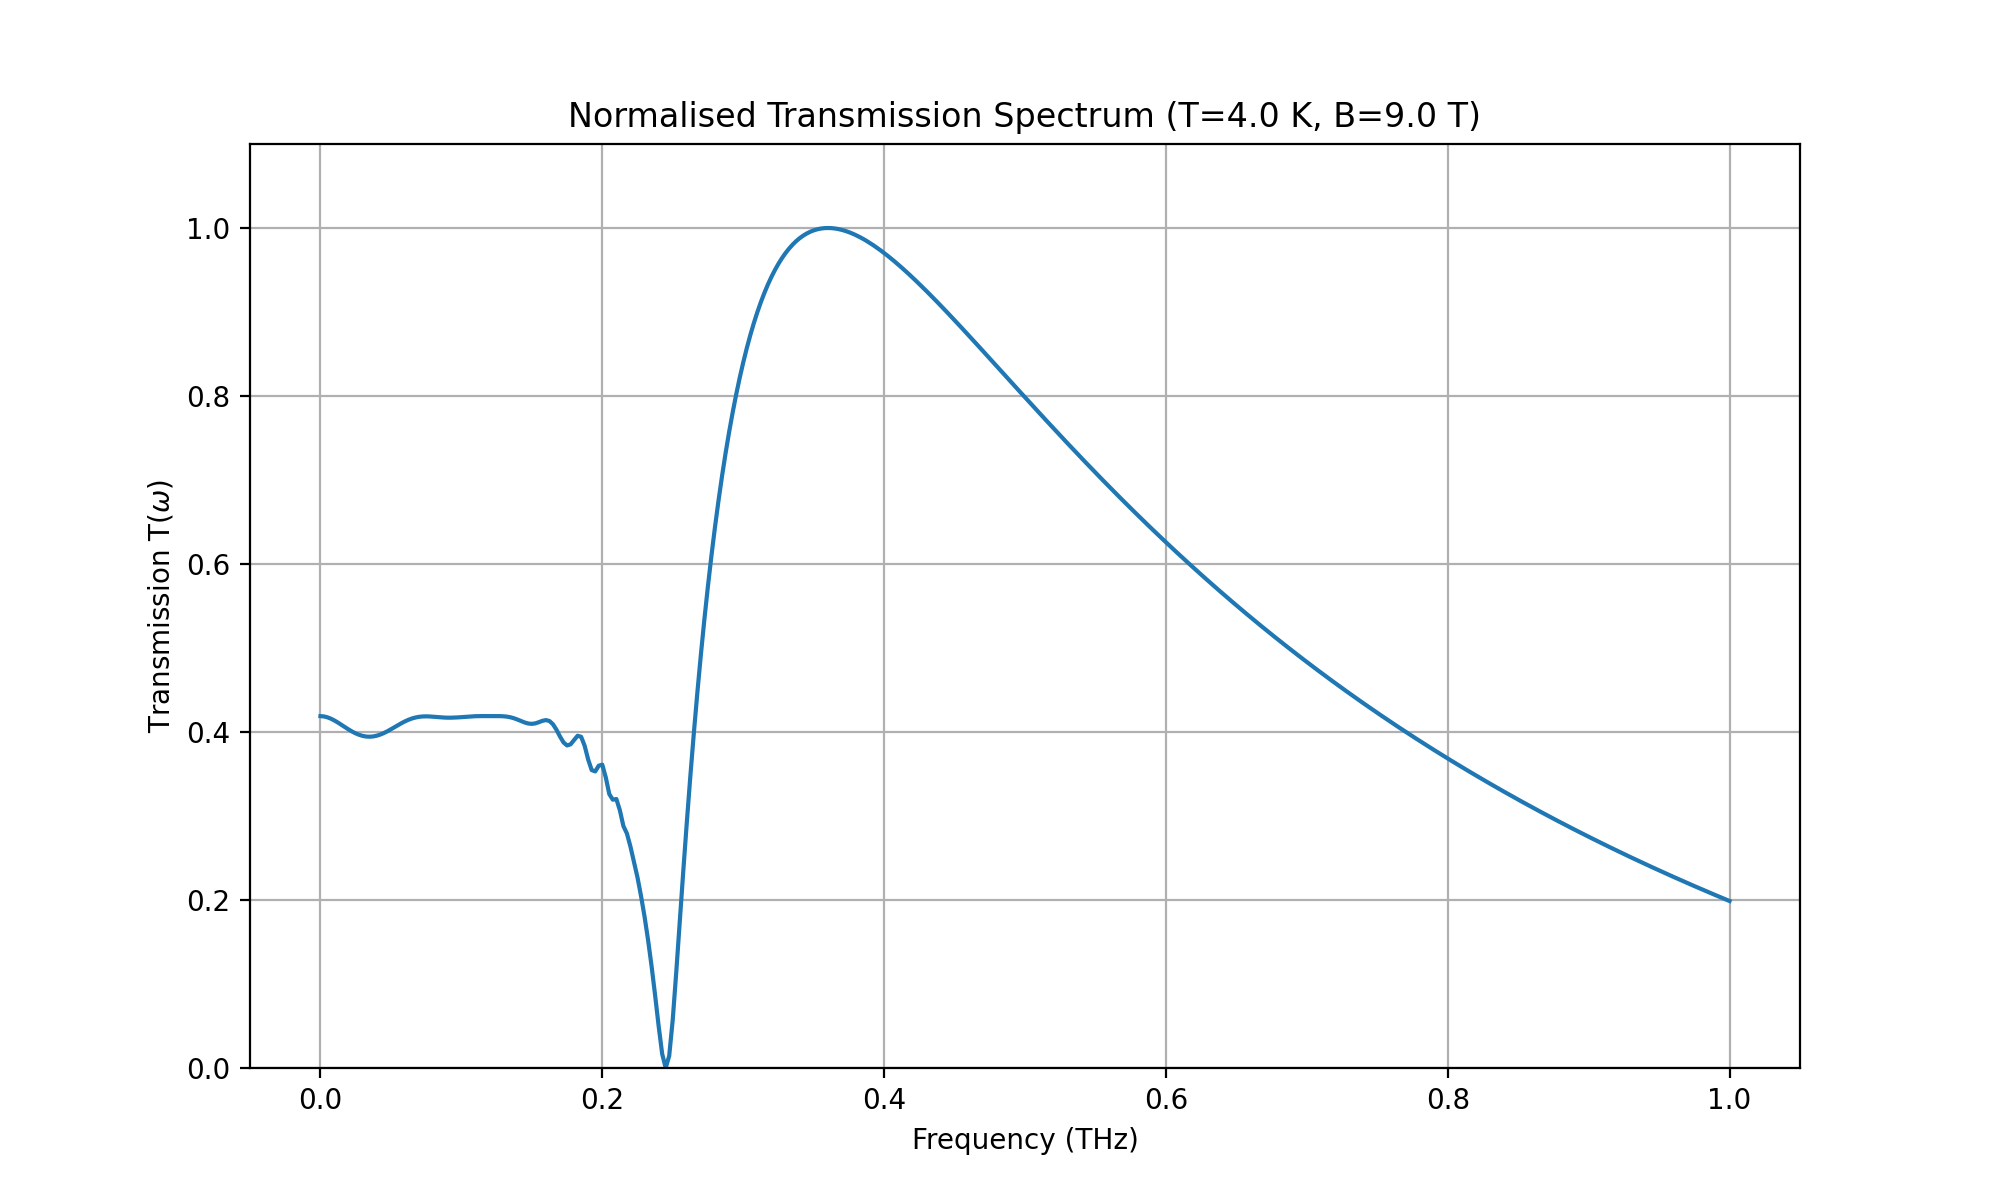
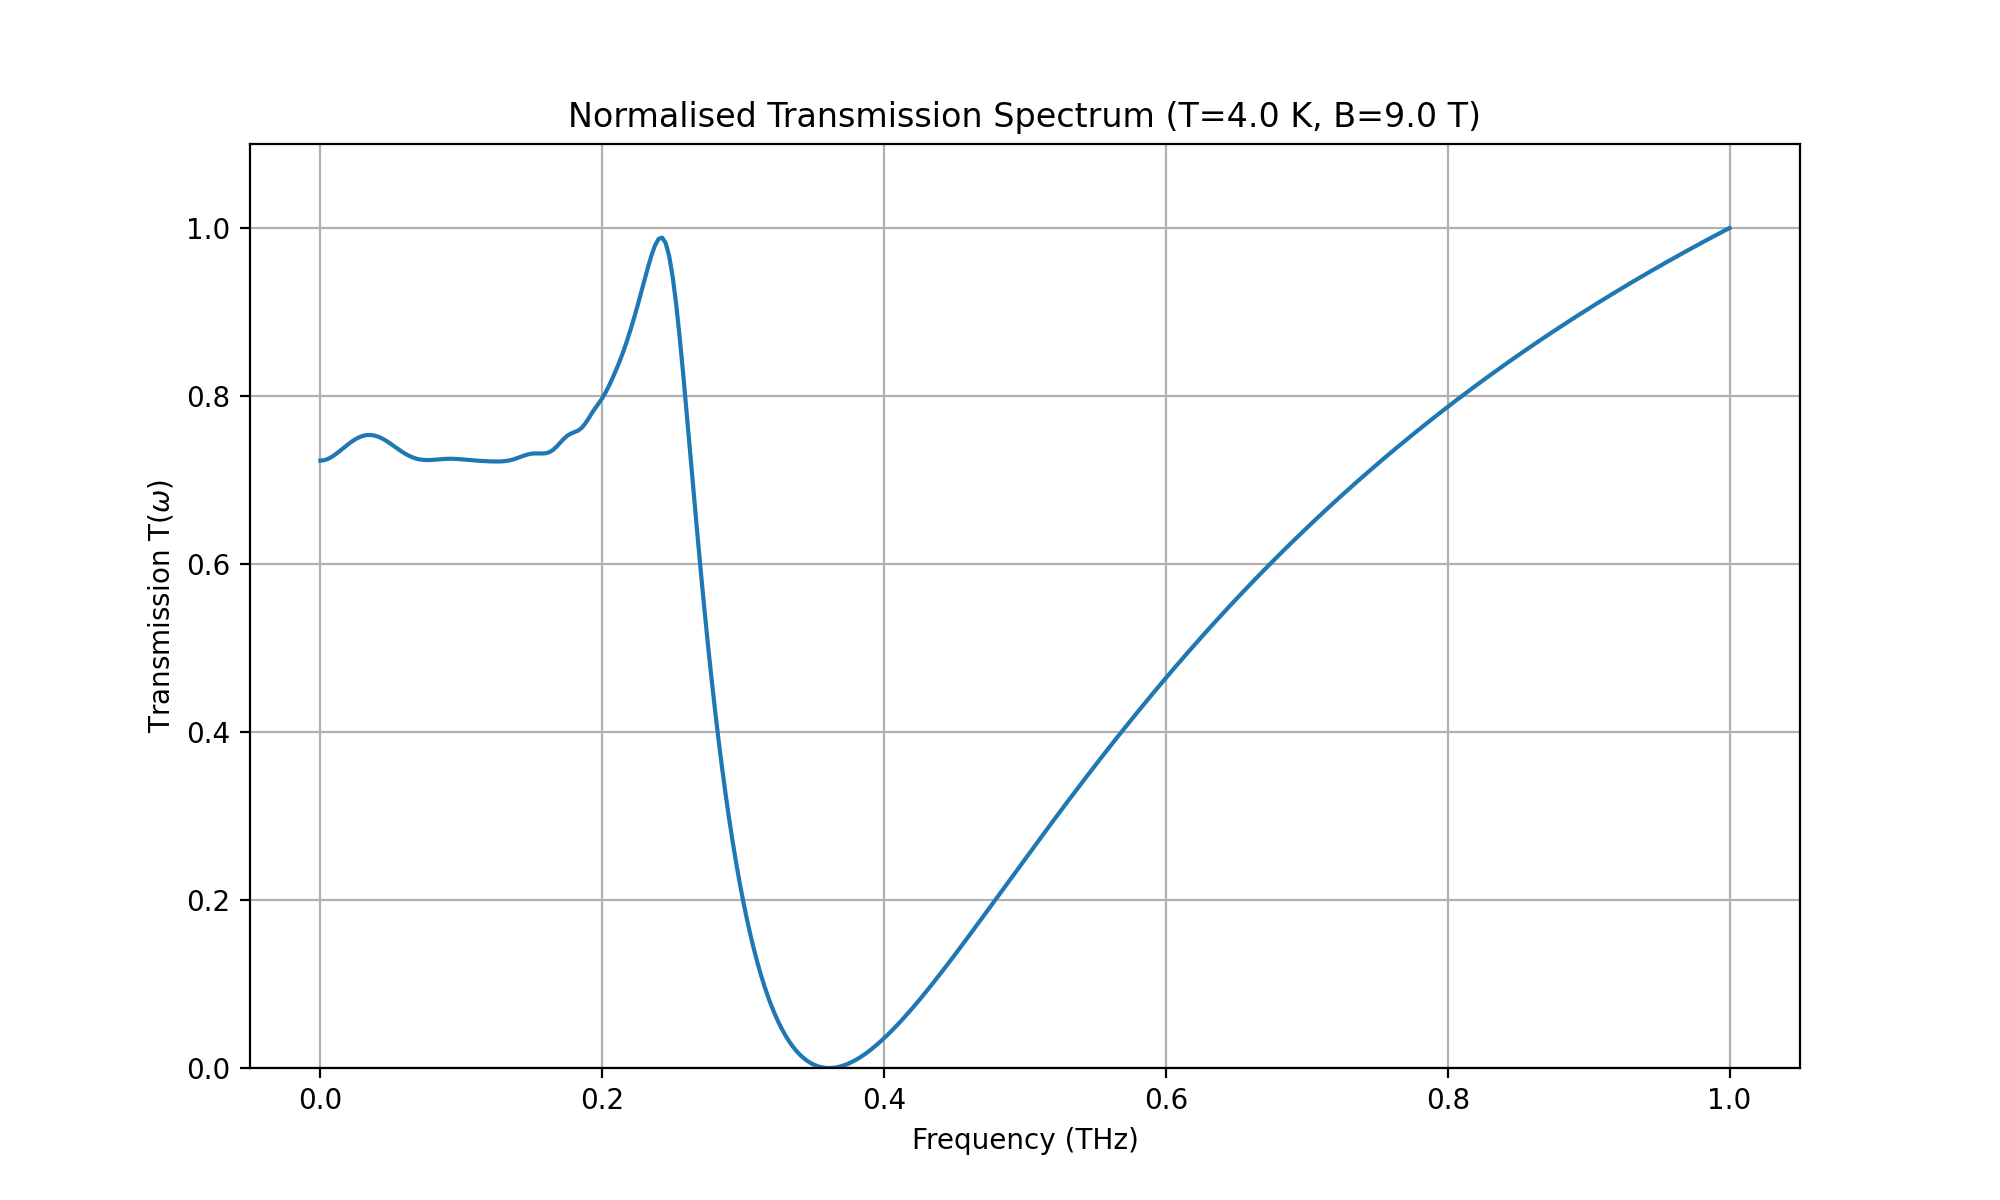
Zeeman相互作用のみを考慮したプログラム

diff --git a/Model/test_only_zeeman.py b/Model/test_only_zeeman.py
@@ -91,31 +91,21 @@ def calculate_chi_M(omega, T, B, g, gamma):
     complex: 複素磁気感受率 chi_M
     """
     
+    
     omega_0 = g * mu_B * B / hbar  # Zeeman固有周波数 (rad/s)
     a_B = g * mu_B * B / k_B / T  # 無次元係数
 
-    # 分配関数
-    Z = sum(np.exp(a_B * m) for m in np.arange(-s, s + 1))
-    
-    # 複数の遷移を考慮した磁気感受率の計算
-    chi_M = 0 + 0j
-    
-    # 各遷移 |m⟩ → |m±1⟩ を考慮
-    for m in np.arange(-s, s):
-        # 選択則: Δm = ±1
-        m_upper = m + 1
-        
-        # ボルツマン因子の差（遷移強度）
-        population_diff = (np.exp(a_B * m) - np.exp(a_B * m_upper)) / Z
-        
-        # 遷移双極子モーメントの行列要素の二乗（簡略化）
-        # ⟨m|S_±|m±1⟩ ∝ sqrt[(s∓m)(s±m+1)]
-        matrix_element_sq = (s - m) * (s + m + 1)
-        
-        # 各遷移の寄与（Lorentz型）
-        chi_M += (mu_0 * N_spin * (g * mu_B)**2 * matrix_element_sq * population_diff) / \
-                 (hbar * (omega_0 - omega - 1j * gamma))
-    
+    Z = sum(np.exp(a_B * m) for m in np.arange(-s, s + 1))  # 分配関数
+    A = np.sinh(a_B * s / 2) * np.cosh(a_B * (s + 1) / 2) / np.sinh(a_B / 2)
+    d2A_dA2 = calculate_d2A_daB2_analytical(a_B, s)
+    A_coeff = 2 * ((1 + s**2) * A - d2A_dA2)
+    G0 = mu_0 * N_spin * (g * mu_B)**2 / (2 * hbar) # 結合定数G0
+
+    numerator = (1 - np.exp(a_B)) * (1 + s**2 * A_coeff) * G0
+    denominator = Z * (omega_0 - (omega + 1j * gamma))
+
+    chi_M = -1 * (numerator / denominator)
+
     return chi_M
 
 def calculate_chi_E(omega):
@@ -248,7 +238,7 @@ if __name__ == "__main__":
     g = 1.95                            # g因子
     
     # 緩和定数の設定（線幅を制御）
-    # 実験的な線幅から推定: FWHM ~ 0.03 THz → gamma ~ 2π × 0.015 THz
+    # 実験的な線幅から推定: FWHM ~ 0.05 THz → gamma ~ 2π × 0.015 THz
     gamma = 2 * np.pi * 0.015 * 1e12    # 緩和定数 (rad/s)
     
     # Zeeman周波数の確認
@@ -258,7 +248,7 @@ if __name__ == "__main__":
     print(f"線幅 (gamma): {gamma / (2 * np.pi * 1e12):.4f} THz")
     
     # 計算する周波数範囲 (THz -> rad/s)
-    freq_thz = np.linspace(0, 1.2, 601)
+    freq_thz = np.linspace(0, 1.0, 401)
     omega_rads = freq_thz * 1e12 * (2 * np.pi)
 
     # スペクトル計算
@@ -266,35 +256,22 @@ if __name__ == "__main__":
     
     # NaN値を除去
     T_spec = np.nan_to_num(T_spec, nan=1.0)
-    
-    # 吸収スペクトルに変換（1 - Transmission）
-    absorption_spec = 1 - T_spec
 
     # スペクトルの正規化
-    min_val, max_val = np.min(absorption_spec), np.max(absorption_spec)
-    if max_val > min_val and np.isfinite(max_val) and np.isfinite(min_val):
-        absorption_spec_norm = (absorption_spec - min_val) / (max_val - min_val)
+    min_trans, max_trans = np.min(T_spec), np.max(T_spec)
+    if max_trans > min_trans and np.isfinite(max_trans) and np.isfinite(min_trans):
+        T_spec = (T_spec - min_trans) / (max_trans - min_trans)
     else:
-        absorption_spec_norm = np.full_like(absorption_spec, 0.5)
+        T_spec = np.full_like(T_spec, 0.5)
     
-    # 結果のプロット（2つのサブプロット）
-    fig, (ax1, ax2) = plt.subplots(2, 1, figsize=(10, 10))
+    R_spec = 1 - T_spec
     
-    # 透過スペクトル
-    ax1.plot(freq_thz, T_spec)
-    ax1.set_xlabel("Frequency (THz)")
-    ax1.set_ylabel(r"Transmission T($\omega$)")
-    ax1.set_title(f"Transmission Spectrum (T={T} K, B={B} T)")
-    ax1.grid(True)
-    ax1.set_ylim(0, 1.1)
-    
-    # 正規化吸収スペクトル
-    ax2.plot(freq_thz, absorption_spec_norm)
-    ax2.set_xlabel("Frequency (THz)")
-    ax2.set_ylabel(r"Normalised Absorption (1 - T)")
-    ax2.set_title(f"Normalised Absorption Spectrum (T={T} K, B={B} T)")
-    ax2.grid(True)
-    ax2.set_ylim(0, 1.1)
-    
-    plt.tight_layout()
+    # 結果のプロット
+    plt.figure(figsize=(10, 6))
+    plt.plot(freq_thz, T_spec)
+    plt.xlabel("Frequency (THz)")
+    plt.ylabel(r"Transmission T($\omega$)")
+    plt.title(f"Normalised Transmission Spectrum (T={T} K, B={B} T)")
+    plt.grid(True)
+    plt.ylim(0, 1.1) # 透過率は 0 から 1 の範囲
     plt.savefig("NR_spectrum.png", dpi=200)
